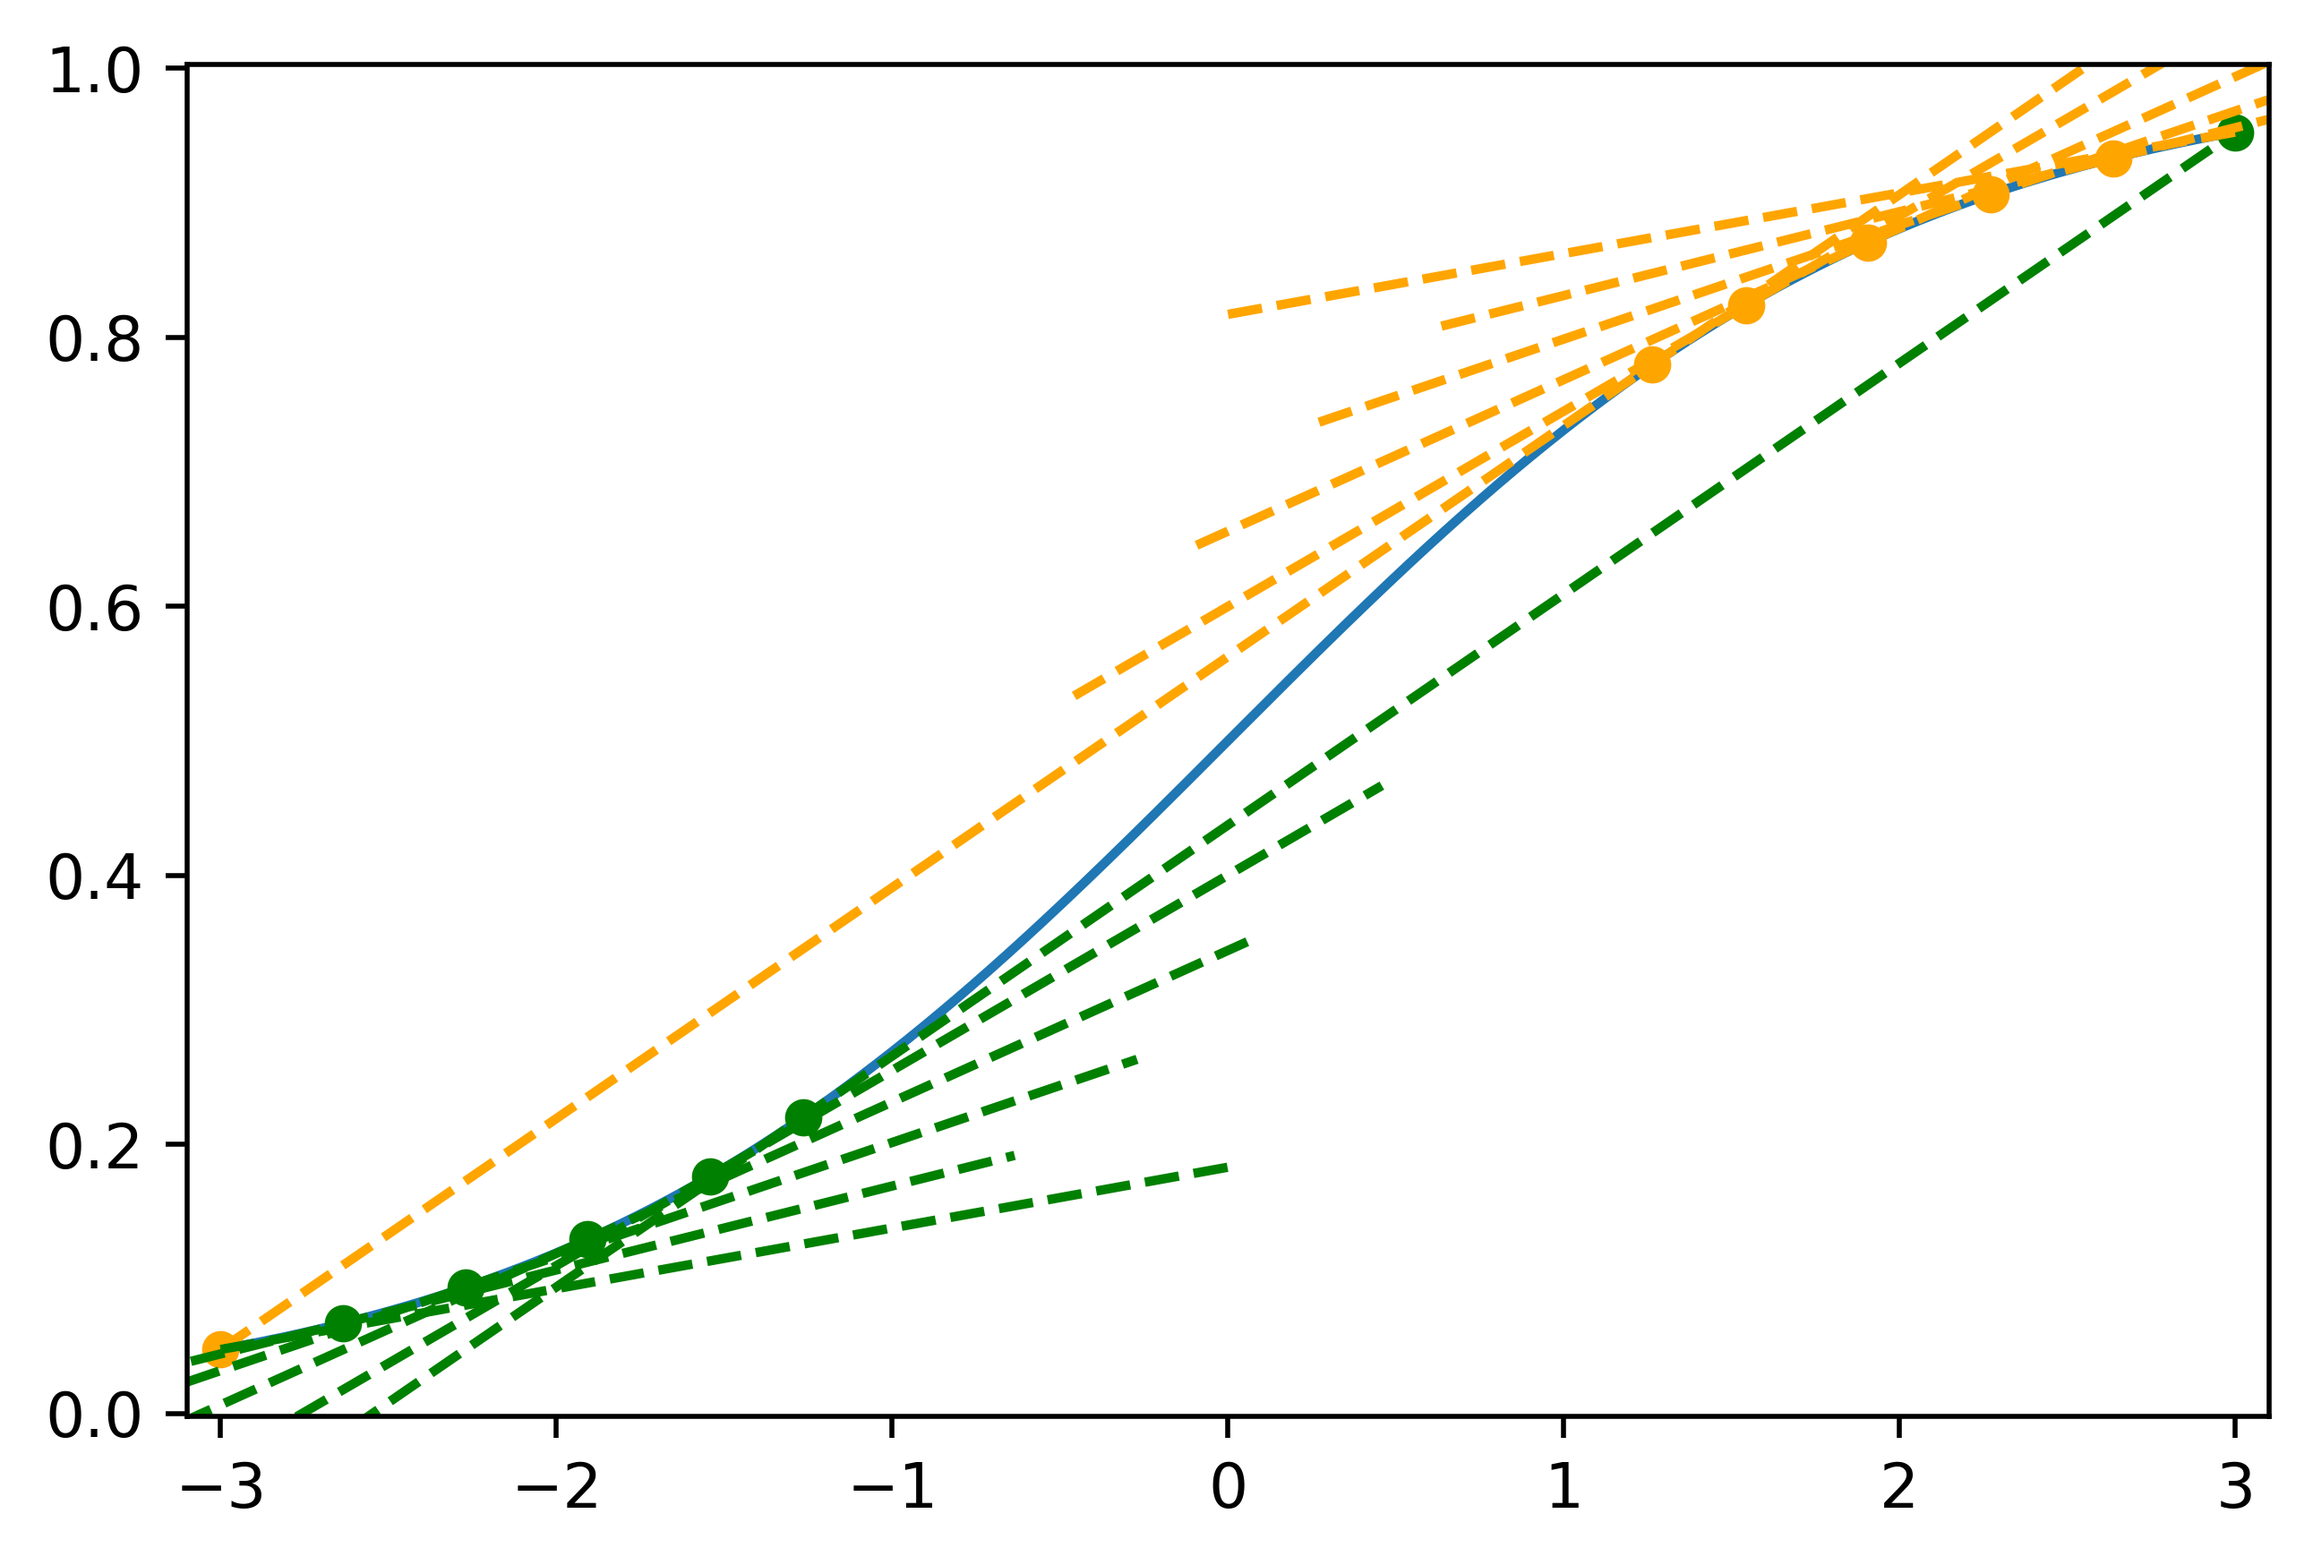
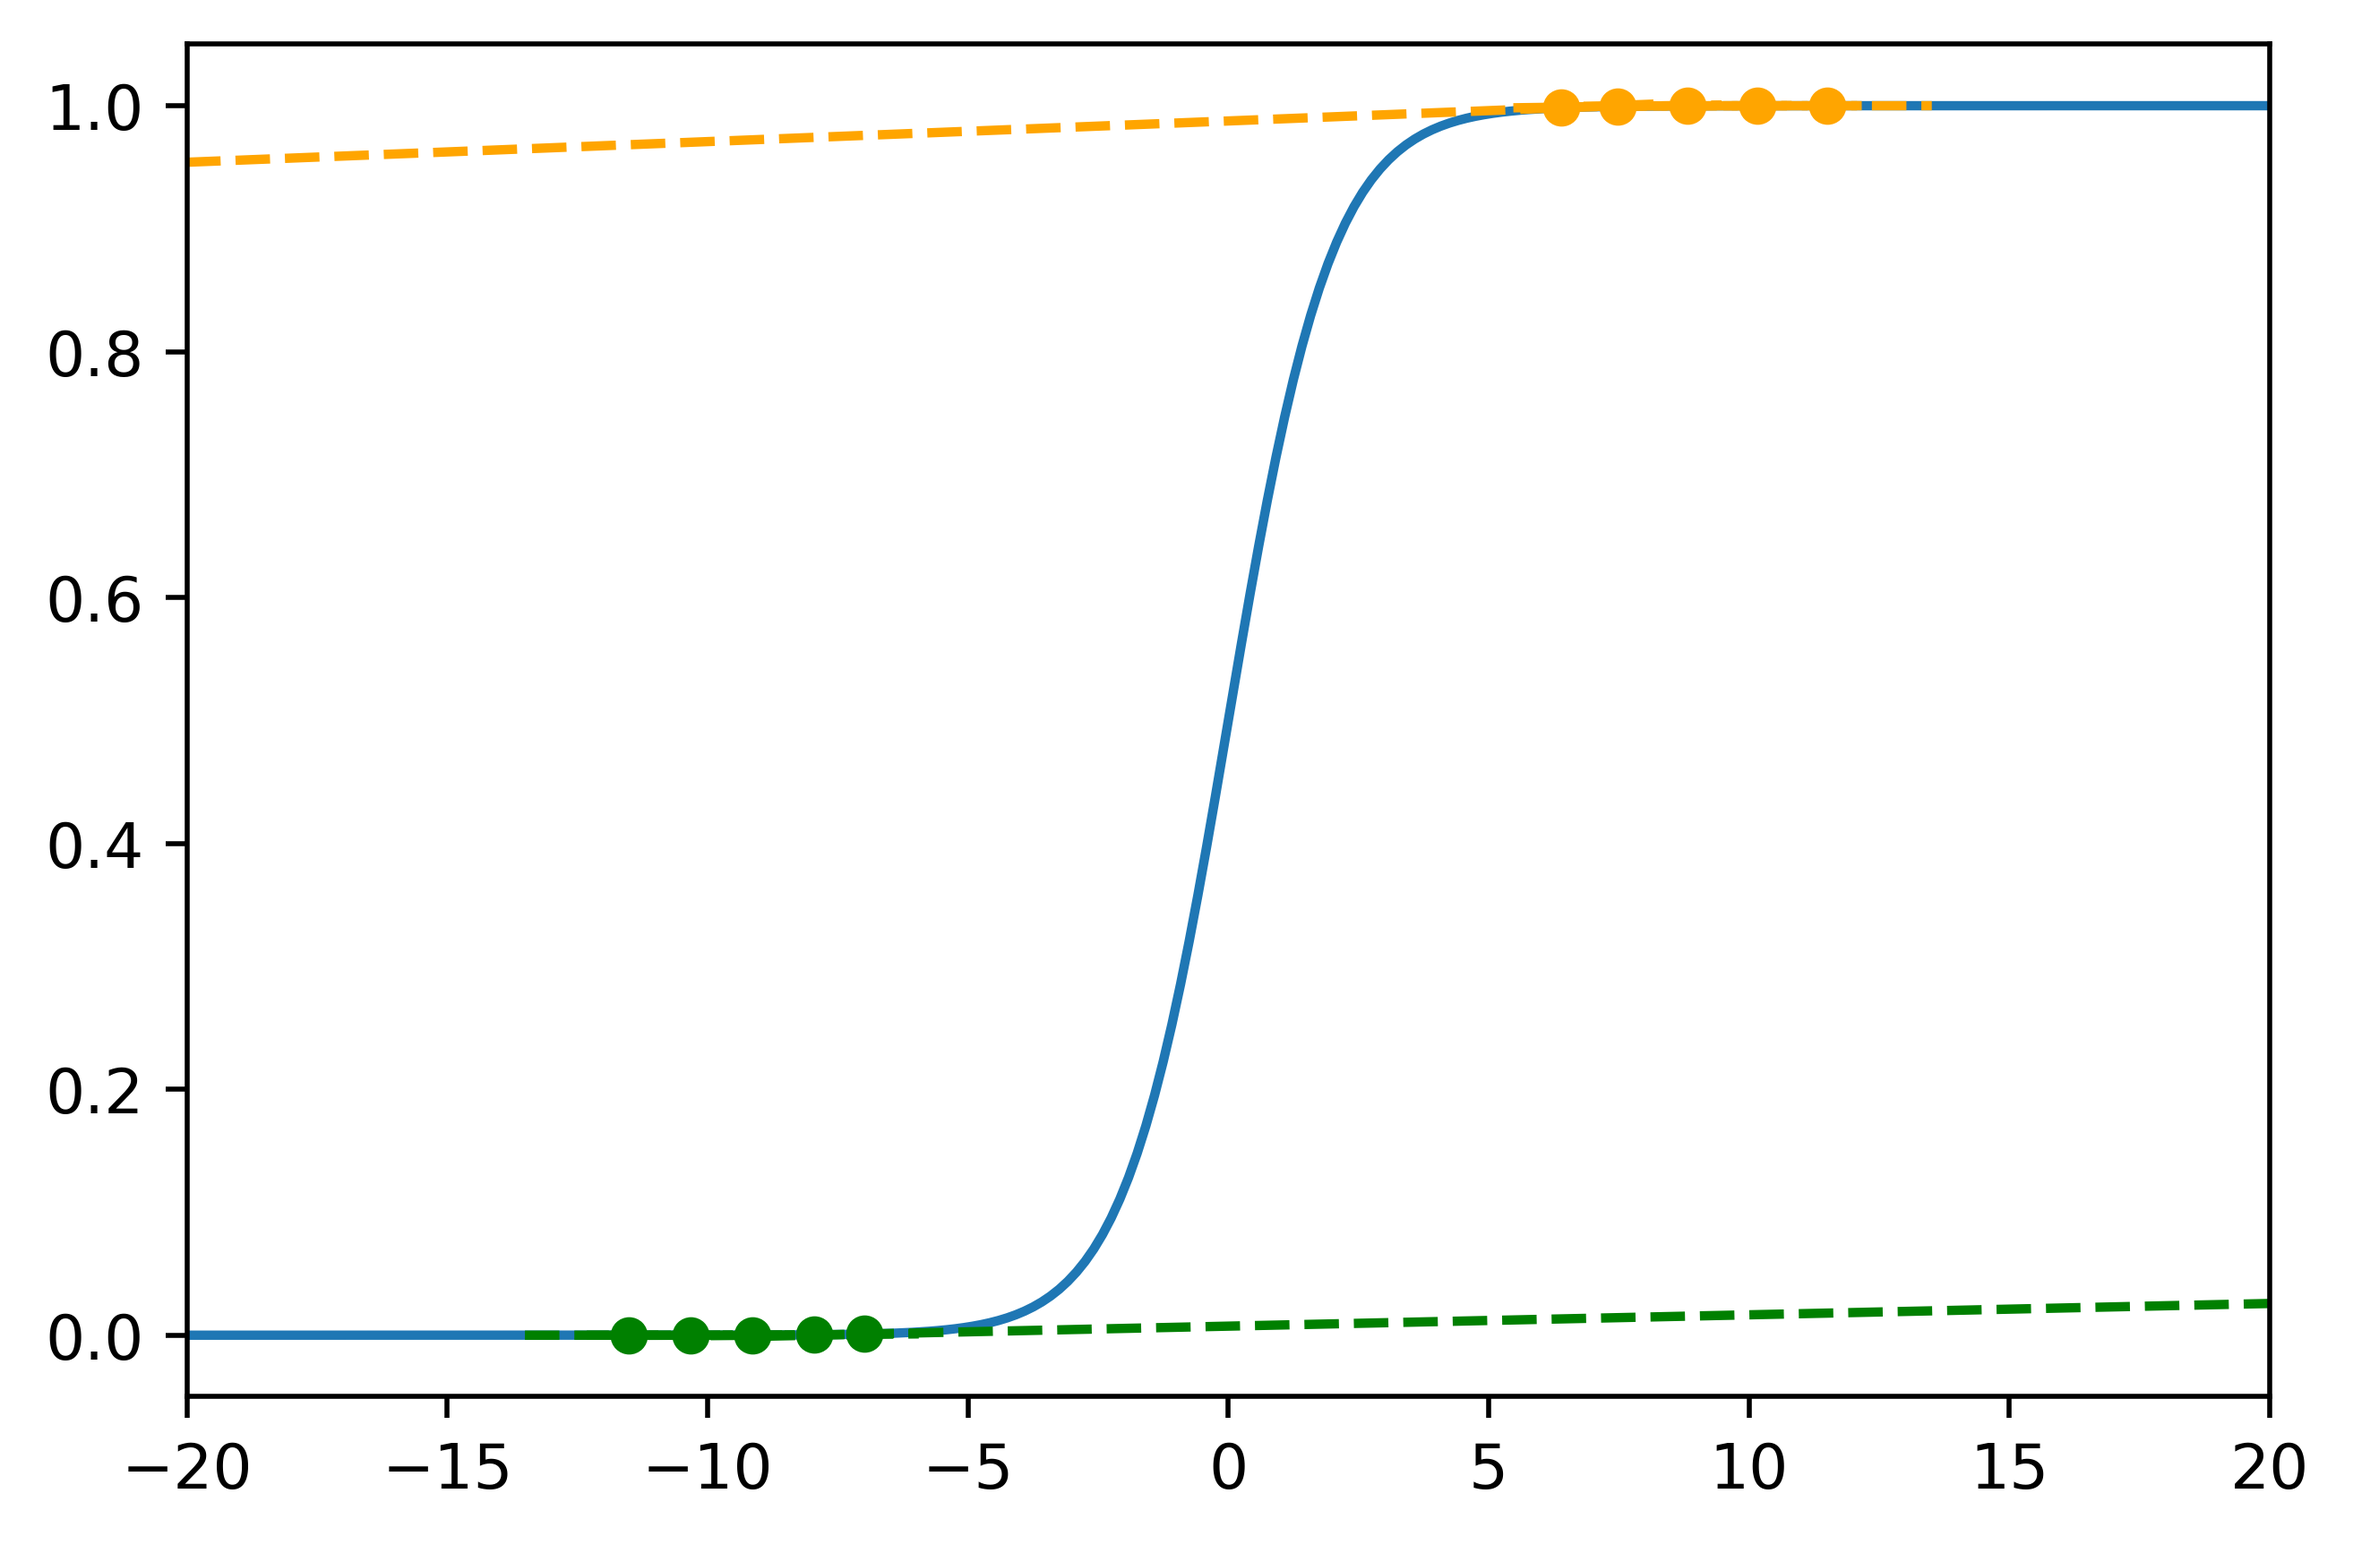
files updated

diff --git a/plots.py b/plots.py
@@ -10,7 +10,7 @@ f  = get_activ_func(activation)
 df = get_activ_derv(activation)
 
 ## Bounds correspondientes 
-bounds = (3,3)
+bounds = (588.3372,1077.1571)
 lb,ub = -bounds[0],bounds[1]
 
 ## Se calculan los cc y cv points
@@ -28,7 +28,7 @@ tan_cc = get_tan_func(activation,cc,lb)[0]
 tan_cv = get_tan_func(activation,cv,ub)[0]
 
 ## Se generan los vectores del eje x
-q = 1000
+q = 10000
 x    = [(lb)+i*(ub-lb)/q for i in range(q+1)]
 x_cc = [(lb)+i*(cc+2-lb)/q for i in range(q+1)] 
 x_cv = [(cv-2)+i*(ub-cv+2)/q for i in range(q+1)] 
@@ -79,7 +79,8 @@ for i in range(k):
 #plt.axvline(0, color="black", linewidth = 1.5)
 
 ## Limites de los ejes
-plt.xlim(lb-0.1, ub+0.1)
+#plt.xlim(lb-0.1, ub+0.1)
+plt.xlim(-20, 20)
 plt.ylim(max(-0.05,f_lb-0.05), min(1.05,f_ub+0.05))
 
 ## Plot y/o guardar como imagen

diff --git a/functions.py b/functions.py
@@ -887,8 +887,8 @@ def get_activation_env_list(activation,bounds,k):
          cv = calculate_cv_point(activation, bounds)
          cc = calculate_cc_point(activation, bounds)
          ## Se añaden las envolturas de las cv y cc point
-         cv_env.append((cv,ub,get_tan_func(activation,cv,ub)[1]))
-         cc_env.append((lb,cc,get_tan_func(activation,lb,cc)[1]))
+         cv_env.append((cv,f(cv),get_tan_func(activation,cv,ub)[1]))
+         cc_env.append((lb,f(lb),get_tan_func(activation,lb,cc)[1]))
          ## Se añaden las demas envolturas convexas
          cv_points = calculate_k_points(activation,k,lb,cv)
          for i in range(k):
